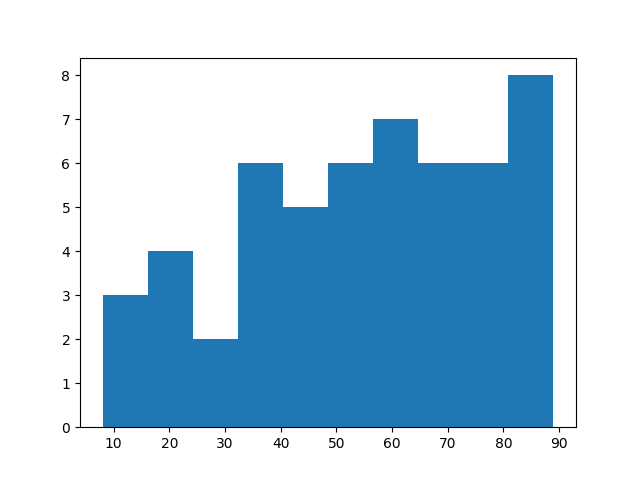
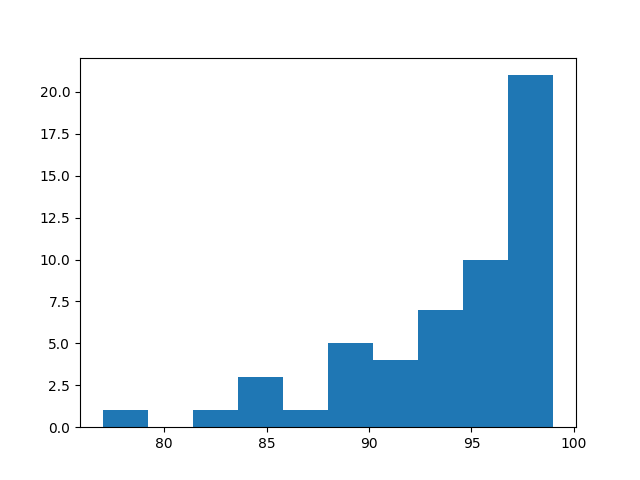
AR almost completed, added analyseLessons_AR

diff --git a/StudentAnalisis/analyseLessons_AR.py b/StudentAnalisis/analyseLessons_AR.py
@@ -1,17 +1,17 @@
 """
-	script that analyses users and gives them weights. Usually used at same time with analyseLessons.
+	script that analyses lessons and gives them weights. Usually used at same time with analyseUsers.
 """
 
 import codecs
 import time
 import re 
-import sys
+import sys, os
 from pprint import pprint
 
 import os.path
 import matplotlib.pyplot as plt
 
-print("reading started - Users")
+print("reading started - Lessons")
 start_time = time.time() # save time
 i = 0
 j = 0
@@ -22,46 +22,45 @@ normal_miliseconds = 40 * 1000
 
 display_graph = len(sys.argv) > 1 # graphs are displayed if there is at least one additional parameter to the script
 
-lessons = {}
-lessons_path = "tmp/lessons/lessons_AR.txt" # location of lesson weights
-if os.path.isfile(lessons_path): # if there are saved weights for the lessons use them
-	with codecs.open(lessons_path, "r", "utf-8-sig") as fin:
+users = {}
+users_path = "tmp/users/users_AR.txt" # results will be stored on users_path location
+if os.path.isfile(users_path): # if there are saved weights for the lessons, set them as initial weights
+	with codecs.open(users_path, "r", "utf-8-sig") as fin:
 		for line in fin:
 			a, b = line.split(":")
 			a, b = a, float(b)
 			
-			lessons[a] = b
-		
+			users[a] = b
 
+	
 s = set()
 d = {}
 
 "calculating function of dependecies"
-
-
 k=3
 def fp(x): return k**(1-2*x)
 def fr(x): return x**2
 def ft(x): return (x+1)/2.0
 
-def score_user(user, score, lesson, percentage=1): # bitno, prije je bio if rijesio else nije...., sada je kad ne rijesi -1!!!!
+def score_lesson(lesson, score, user, percentage=1): # bitno, prije je bio if rijesio else nije...., sada je kad ne rijesi -1!!!!
 	# ne moze se samo copy paste
 	global d
-	tmp = d.get(user, [0, 0])
+	tmp = d.get(lesson, [0, 0])
 	
 	score = 1 if score == True else \
 			-1 if score == False else \
 			score 
 	
-	if lesson not in lessons: 
-		print("{} not in lessons!".format(lesson))
-		lessons[lesson] = 0.5
+	if user not in users: 
+		print("{} not in user!".format(user))
+		users[user] = 0.5
 	
-	tmp[0] += fr(score) * ft(score) * fp(lessons[lesson])**score * percentage
-	tmp[1] += fr(score) * fp(lessons[lesson])**score
+	tmp[0] += fr(score) * ft(score) * fp(users[user])**score * percentage
+	tmp[1] += fr(score) * fp(users[user])**score
 	
-	d[user] = tmp
-	
+	d[lesson] = tmp
+
+
 with codecs.open('logs_AR.txt', 'r', "utf-8-sig") as fin:
 	for line in fin:
 		i += 1	
@@ -115,7 +114,7 @@ with codecs.open('logs_AR.txt', 'r', "utf-8-sig") as fin:
 					
 					sovled, score = cal_score(answers)
 					
-					score_user(name, sovled, lesson, score)
+					score_lesson(lesson, sovled, name, score)
 					
 			elif eventType == "AR.Shapes" and "answers" not in params[0]:
 				pprint(params)
@@ -124,30 +123,31 @@ with codecs.open('logs_AR.txt', 'r', "utf-8-sig") as fin:
 		except Exception as e:
 			print("PROBLEM OCCURED", i, e)
 			print(line)
+			
+			exc_type, exc_obj, exc_tb = sys.exc_info()
+			fname = os.path.split(exc_tb.tb_frame.f_code.co_filename)[1]
+			print(exc_type, fname, exc_tb.tb_lineno)
+
 			exit()
-			with codecs.open('tmp.txt', 'w', "utf-8-sig") as fout:
-				fout.write(JSONParams+"\n")
-				
-			break
 			
 		
 			
-print(i, j, k)
+print(i, j)
 print("reading finished")
 
-print("prining set (size: {})".format(len(s)))
-for string in sorted([int(element) for element in s]):
-	print(string)
-	
-	
-with codecs.open('tmp/users/users_AR.txt', "w", 'utf-8-sig') as fout:
-	for user in sorted(d.keys()):
-		print(user, d[user][0], d[user][1], d[user][0]/ d[user][1])
-		fout.write("{}:{}\n".format(user, d[user][0] / d[user][1]))
 
+with codecs.open('tmp/lessons/lessons_AR.txt', "w", 'utf-8-sig') as fout:
+	for lesson in sorted(d.keys()):
+		print(lesson, d[lesson][0], d[lesson][1], d[lesson][0]/ d[lesson][1])
+		fout.write("{}:{}\n".format(lesson, d[lesson][0] / d[lesson][1]))
 		
+		
+print("prining set (size: {})".format(len(s)))
+for string in s:                            
+	print(string)
+
 if display_graph:
-	img_name = "tmp/users/{}_AR.png".format(sys.argv[1]);
+	img_name = "tmp/lessons/{}_AR.png".format(sys.argv[1]);
 
 	plt.hist([ int(d[key][0]/d[key][1] * 100) for key in d])
 	plt.savefig(img_name)
